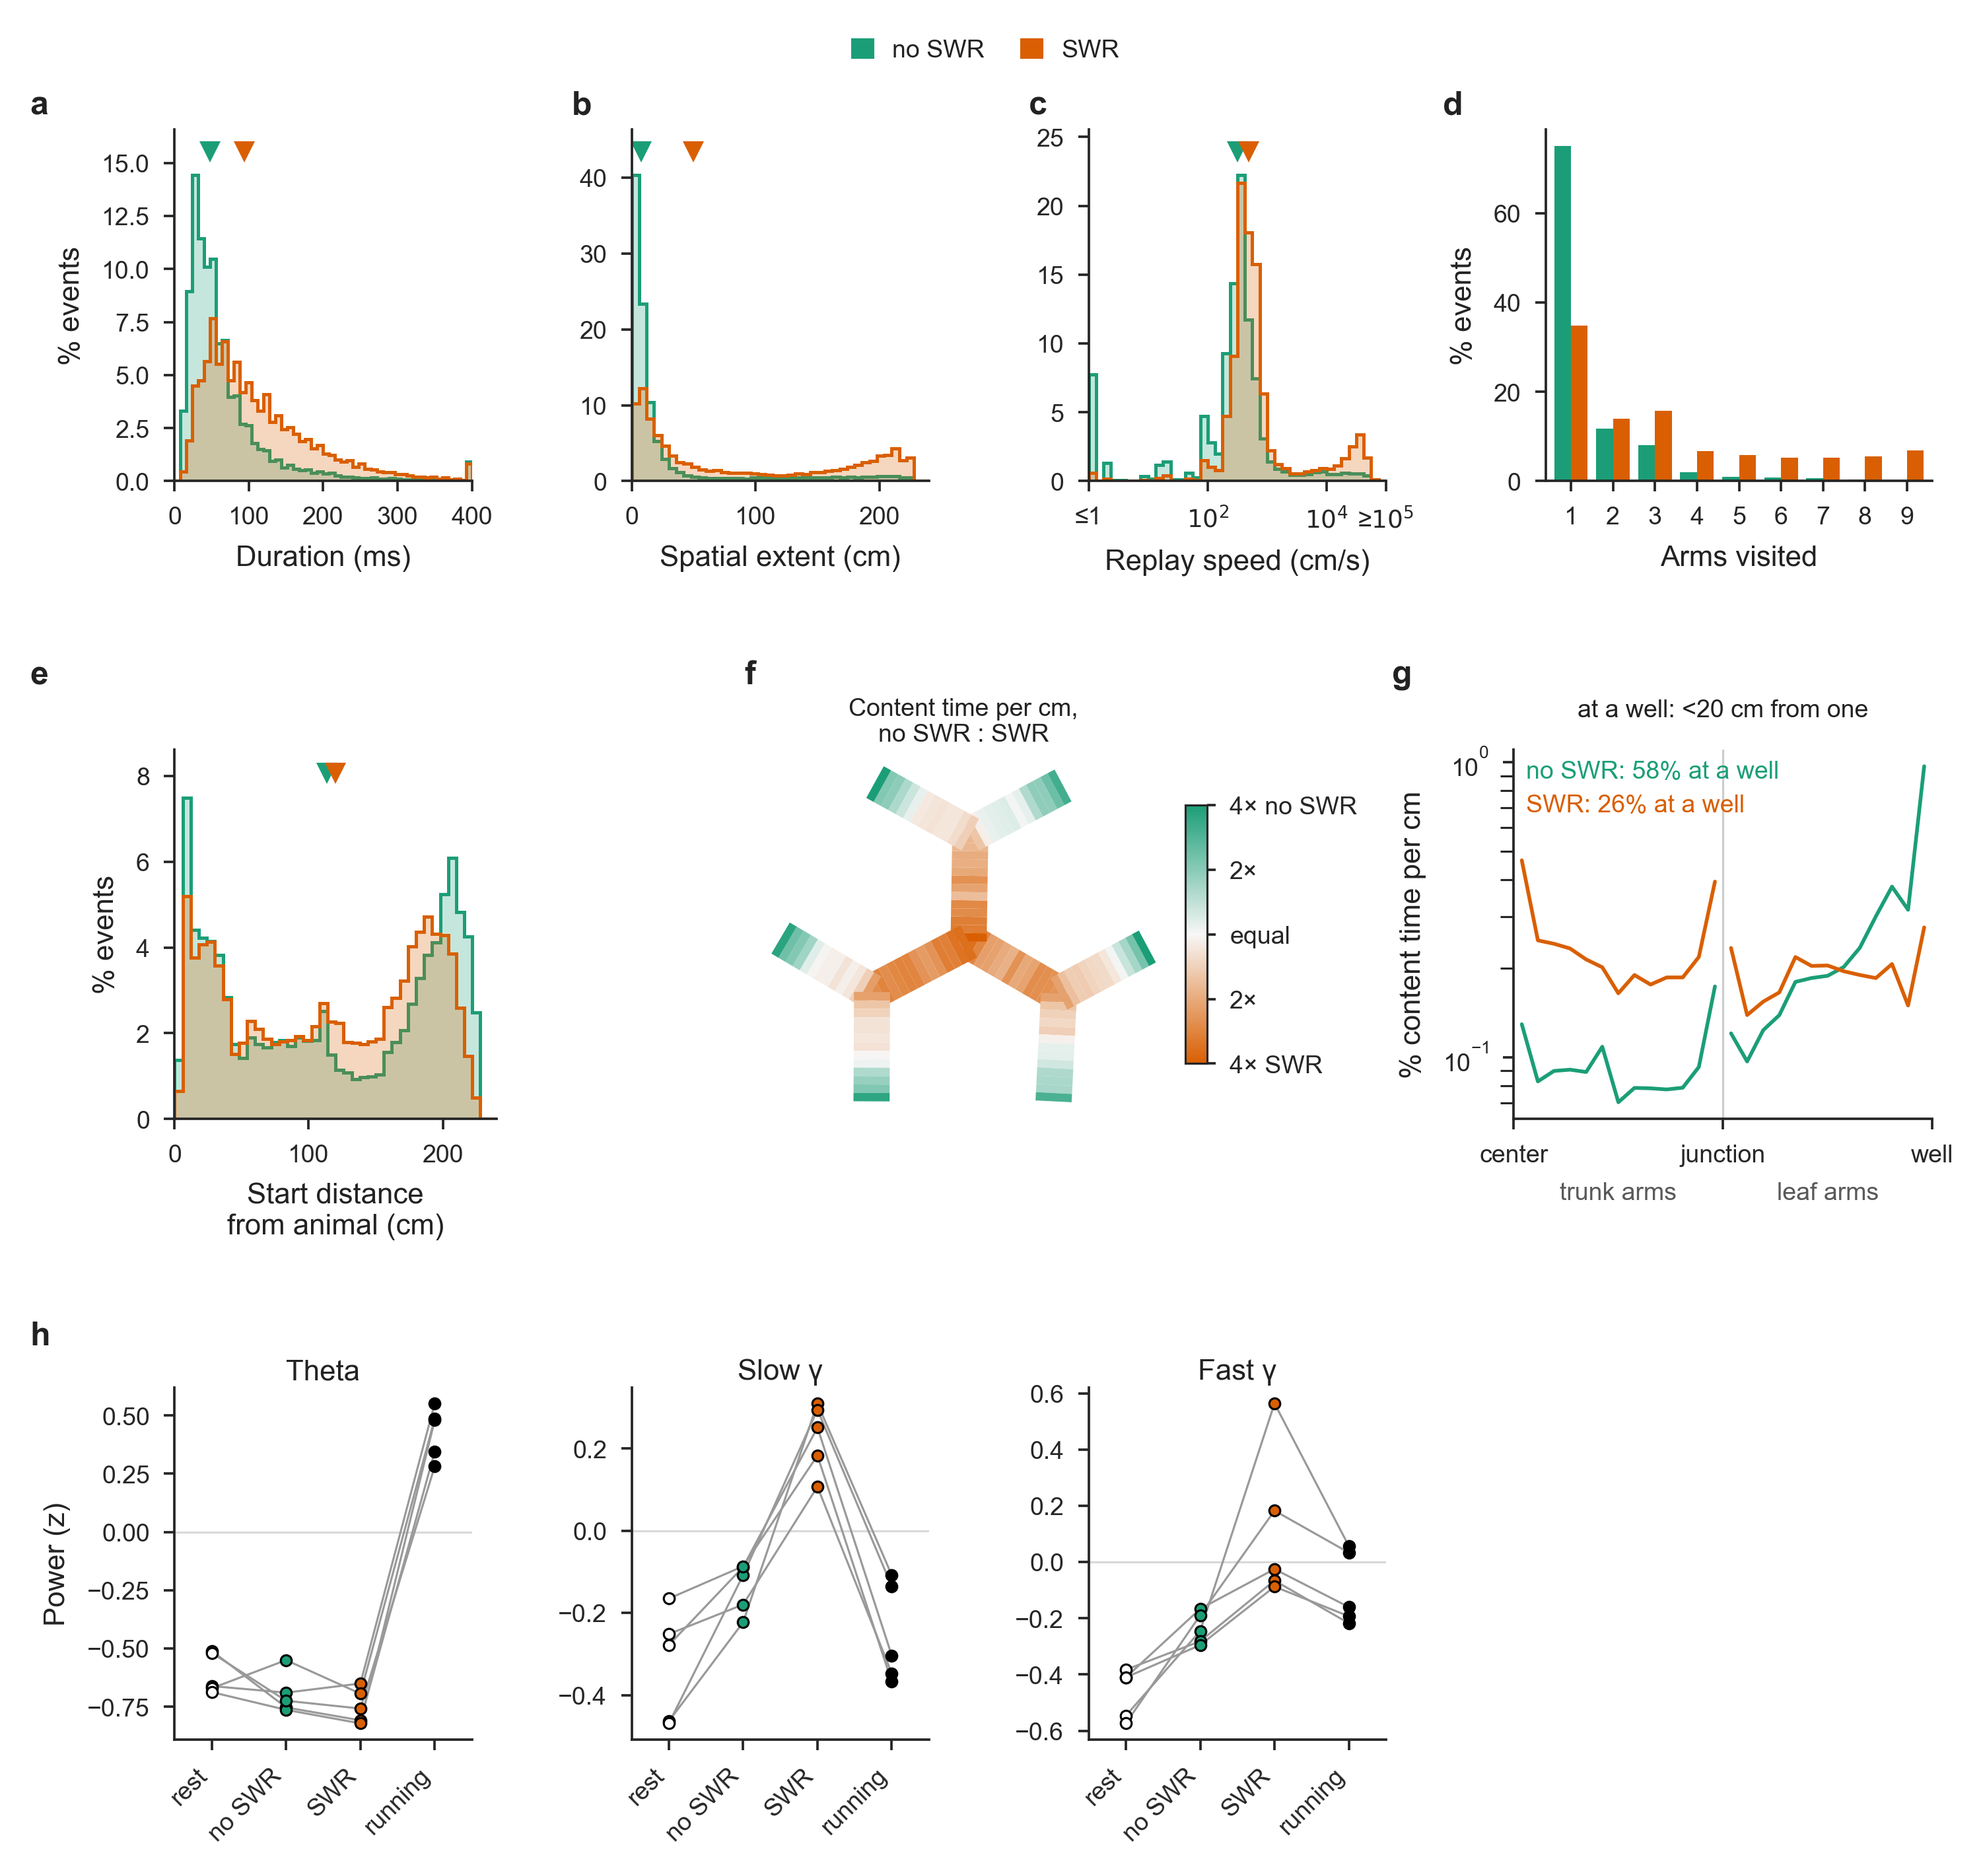
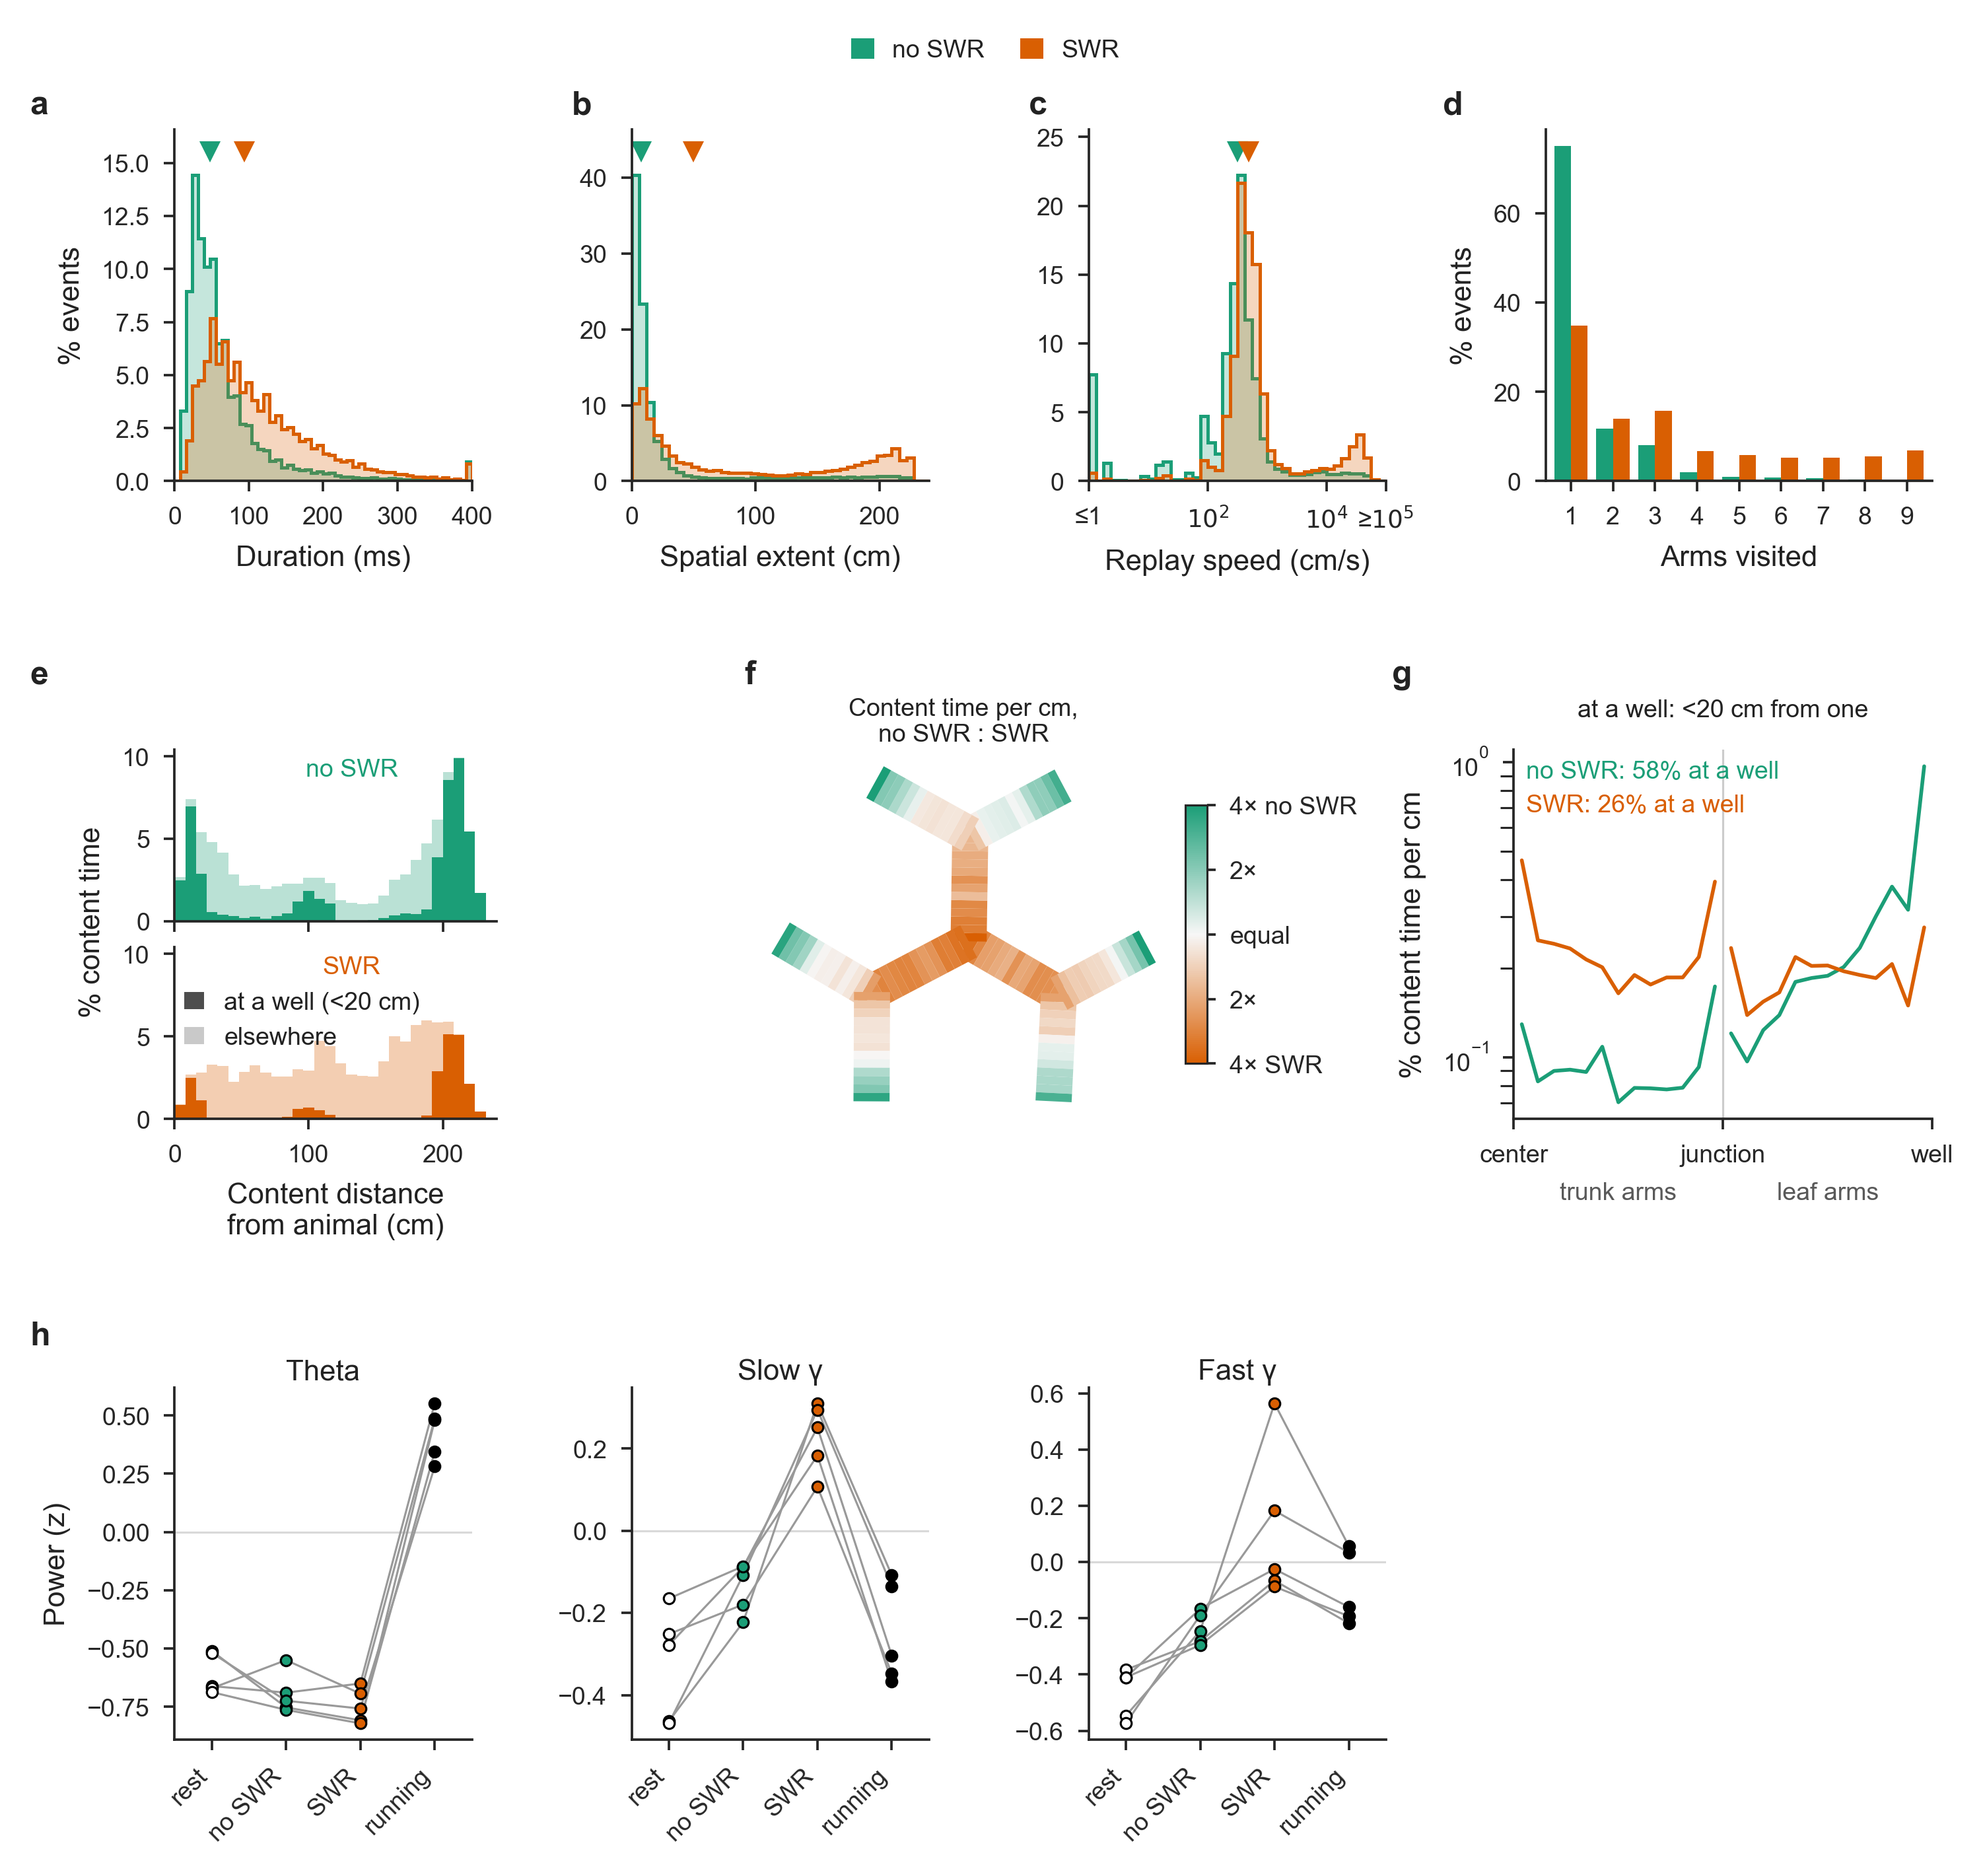
Figure 3 e: content time by distance from the animal, at a well and elsewhere
Replaces the start-distance histogram: at-well content near the animal is its
own well, far from it another well. Start distance keeps its summary values,
untagged to a figure.

Claude-Session: https://claude.ai/code/session_01KFtJm5LJcVyD5mXspXkcoY

Changed region(s): [[0.031, 0.403, 0.2478, 0.6509], [0.1548, 0.403, 0.1858, 0.434]]

diff --git a/scripts/figures/generate_figure03.py b/scripts/figures/generate_figure03.py
@@ -10,8 +10,9 @@ they overlap an SWR (Kay's detector, the SWR source). Each row asks one thing:
         c — Replay speed (each event's median).
         d — Arms the decoded position visits (of the track's nine).
     Where the content is
-        e — Start distance: track distance from the animal to the event's first
-            decoded position.
+        e — Content time by track distance from the animal, at a well (within
+            ``AT_WELL_CM`` of one) and elsewhere: content at a well far from
+            the animal is at another well, near it at the animal's own.
         f — Where on the track each kind's content is denser: the ratio of no-SWR
             to SWR content time per cm along every arm.
         g — Content time per cm from the center out to the junctions (trunk
@@ -21,12 +22,13 @@ they overlap an SWR (Kay's detector, the SWR source). Each row asks one thing:
             epochs' quiet rest and running. (Ripple power and MUA around the
             events are Figure 2's.)
 
-Panels a–c and e mark each class's median (``event_statistics.class_medians``),
+Panels a–c mark each class's median (``event_statistics.class_medians``),
 the events summary's ``<property>_median_*`` values
 (``paper/reported/events.json``). Panels
-f and g place every event time bin's MAP position on its arm
-(``measure_content_along_arms.py``; ``Processed-Data/content_along_arms``) and
-draw ``content_along_arms.content_density_along_arms``, the animals' mean; g
+e–g place every event time bin's MAP position on its arm
+(``measure_content_along_arms.py``; ``Processed-Data/content_along_arms``): e
+draws ``content_along_arms.distance_from_animal_shares``, f and g
+``content_along_arms.content_density_along_arms``, each the animals' mean; g
 quotes the share of content time within ``AT_WELL_CM`` of a well, the summary's
 ``*_content_at_well_fraction`` (``event_statistics.content_occupancy_shares``). Panel h's animal values are
 ``event_statistics.animal_signal_levels``: the values the summary's
@@ -58,6 +60,7 @@ from continuum_swr_replay.analysis.event_definition.analysed_time import (
 )
 from continuum_swr_replay.analysis.event_properties.content_along_arms import (
     content_density_along_arms,
+    distance_from_animal_shares,
     leaf_and_trunk_profiles,
     log2_density_ratio,
 )
@@ -78,7 +81,6 @@ from continuum_swr_replay.paths import (
 from continuum_swr_replay.reported.events import (
     default_inputs,
     with_brain_state,
-    with_start_and_rest_theta,
 )
 from continuum_swr_replay.visualization.figure_utilities import save_figure
 from continuum_swr_replay.visualization.palettes import COLORS
@@ -118,10 +120,12 @@ ARM_HALF_WIDTH_CM = 9.0
 N_SEGMENTS = 13
 # Panel f: the color scale's limit, log2 of the no-SWR to SWR density ratio.
 RATIO_LIMIT_LOG2 = 2
+# Panel e: distance from the animal, cm (the track's longest is under 240).
+DISTANCE_EDGES_CM = np.arange(0, 241, 8)
 # Panel d: the track's arms.
 N_ARMS = len(ALL_ARMS)
 
-# Panels a-c and e: (column, x label, scale, bin edges, log x).
+# Panels a-c: (column, x label, scale, bin edges, log x).
 HISTOGRAMS = {
     "duration": (
         "event_duration_s", "Duration (ms)", 1e3,
@@ -134,10 +138,6 @@ HISTOGRAMS = {
     "speed": (
         "replay_speed_median_cm_s", "Replay speed (cm/s)", 1.0,
         np.geomspace(1, 1e5, 41), True,
-    ),
-    "start_distance": (
-        "start_distance_cm", "Start distance\nfrom animal (cm)",
-        1.0, np.linspace(0, 240, 41), False,
     ),
 }  # fmt: skip
 
@@ -155,26 +155,27 @@ SIGNALS = (
 
 
 def read_inputs() -> dict:
-    """The events with their start distances and gamma, and the other inputs."""
+    """The events with their gamma, their content's time bins, and the other inputs."""
     inputs = default_inputs()
     events = read_swr_table(inputs.event_table)
     n_events = len(events)
     n_epochs = len(analysed_epoch_ids())
-    # As the summary does: the start distances and the brain state are joined to
-    # the events separately (the start-distance output carries theta columns
-    # of its own).
-    with_start, _ = with_start_and_rest_theta(
-        events, inputs.event_start_rest_theta, n_epochs
-    )
     events, reference, _ = with_brain_state(events, inputs, n_epochs)
-    events = events.merge(
-        with_start[["event_id", "start_distance_cm"]], on="event_id", validate="1:1"
-    )
     occupancy = pd.read_csv(
         content_occupancy_dir() / "content_occupancy_per_session.csv"
     )
     along = pd.concat(
-        pd.read_parquet(path, columns=["event_id", "arm", "fraction", "arm_length_cm"])
+        pd.read_parquet(
+            path,
+            columns=[
+                "event_id",
+                "arm",
+                "fraction",
+                "arm_length_cm",
+                "distance_to_well_cm",
+                "distance_to_animal_cm",
+            ],
+        )
         for path in sorted(
             (processed_data_dir() / CONTENT_ALONG_ARMS_DIR).glob("*.parquet")
         )
@@ -192,6 +193,9 @@ def read_inputs() -> dict:
         "reference": reference,
         "occupancy_shares": content_occupancy_shares(occupancy),
         "ratio": log2_density_ratio(density),
+        "distance_shares": distance_from_animal_shares(
+            along, DISTANCE_EDGES_CM, AT_WELL_CM
+        ),
         "profiles": leaf_and_trunk_profiles(density),
         "track_graph": env.track_graph,
         "edge_order": [tuple(edge) for edge in env.edge_order],
@@ -266,6 +270,40 @@ def draw_arm_counts(ax, events: pd.DataFrame) -> None:
         ax.bar(values + (k - 0.5) * 0.4, 100 * share, width=0.4, color=color, lw=0)
     ax.set_xticks(values)
     ax.set_xlim(0.4, N_ARMS + 0.6)
+
+
+def draw_distance_from_animal(axes, shares: pd.DataFrame) -> None:
+    """Each kind's content time by distance from the animal (``axes``: no SWR,
+    then SWR), stacked: at a well (dark) and elsewhere (light)."""
+    width = np.diff(DISTANCE_EDGES_CM)
+    top = 100 * shares.sum(axis=1).max()
+    for ax, (is_swr, name, color) in zip(axes, KINDS, strict=True):
+        kind = shares.loc[is_swr]
+        left = kind.index.to_numpy()
+        well = 100 * kind["at_well"].to_numpy()
+        ax.bar(left, well, width, align="edge", color=color, lw=0)
+        ax.bar(
+            left, 100 * kind["elsewhere"].to_numpy(), width, bottom=well,
+            align="edge", color=color, alpha=0.3, lw=0,
+        )  # fmt: skip
+        ax.set_xlim(DISTANCE_EDGES_CM[0], DISTANCE_EDGES_CM[-1])
+        ax.set_ylim(0, top * 1.05)
+        ax.text(
+            0.55, 0.95, name, transform=ax.transAxes, ha="center", va="top",
+            color=color, fontsize=SMALL_SIZE,
+        )  # fmt: skip
+    axes[0].tick_params(labelbottom=False)
+    axes[1].set_xlabel("Content distance\nfrom animal (cm)")
+    axes[0].set_ylabel("% content time", y=0.0)
+    handles = [
+        plt.Rectangle((0, 0), 1, 1, color="0.3", alpha=alpha, lw=0)
+        for alpha in (1.0, 0.3)
+    ]
+    axes[1].legend(
+        handles, [f"at a well (<{AT_WELL_CM:.0f} cm)", "elsewhere"],
+        frameon=False, loc="upper left", bbox_to_anchor=(0.0, 0.8),
+        fontsize=SMALL_SIZE, handlelength=0.8, borderaxespad=0,
+    )  # fmt: skip
 
 
 def draw_ratio_track(ax, track_graph, edge_order, ratio: pd.Series) -> None:
@@ -388,9 +426,10 @@ def generate_figure(inputs: dict):
     )  # fmt: skip
 
     row2 = outer[1].subgridspec(1, 3, width_ratios=[1.0, 1.6, 1.3], wspace=0.6)
-    ax_e = fig.add_subplot(row2[0])
-    draw_histogram(ax_e, events, "start_distance")
-    ax_e.set_ylabel("% events")
+    e_grid = row2[0].subgridspec(2, 1, hspace=0.15)
+    ax_e = [fig.add_subplot(e_grid[0])]
+    ax_e.append(fig.add_subplot(e_grid[1], sharex=ax_e[0]))
+    draw_distance_from_animal(ax_e, inputs["distance_shares"])
     ax_f = fig.add_subplot(row2[1])
     draw_ratio_track(ax_f, inputs["track_graph"], inputs["edge_order"], inputs["ratio"])
     ax_g = fig.add_subplot(row2[2])
@@ -403,7 +442,7 @@ def generate_figure(inputs: dict):
     fig.draw_without_rendering()
     rows = (
         ((ax_a, "a"), (ax_b, "b"), (ax_c, "c"), (ax_d, "d")),
-        ((ax_e, "e"), (ax_f, "f"), (ax_g, "g")),
+        ((ax_e[0], "e"), (ax_f, "f"), (ax_g, "g")),
         ((ax_h[0], "h"),),
     )
     for row in rows:

diff --git a/src/continuum_swr_replay/reported/events.py b/src/continuum_swr_replay/reported/events.py
@@ -157,7 +157,7 @@ TAGS = {
     "speed": Tags(("2d.2",), ("3c",)),
     "certainty": Tags(("2d.5",)),
     "stillness": Tags(("2d.4",)),
-    "location": Tags(("2d.1",), ("3e",)),
+    "location": Tags(("2d.1",)),
 }
 """Each group of values: the questions it answers and the figures that show it."""
 
